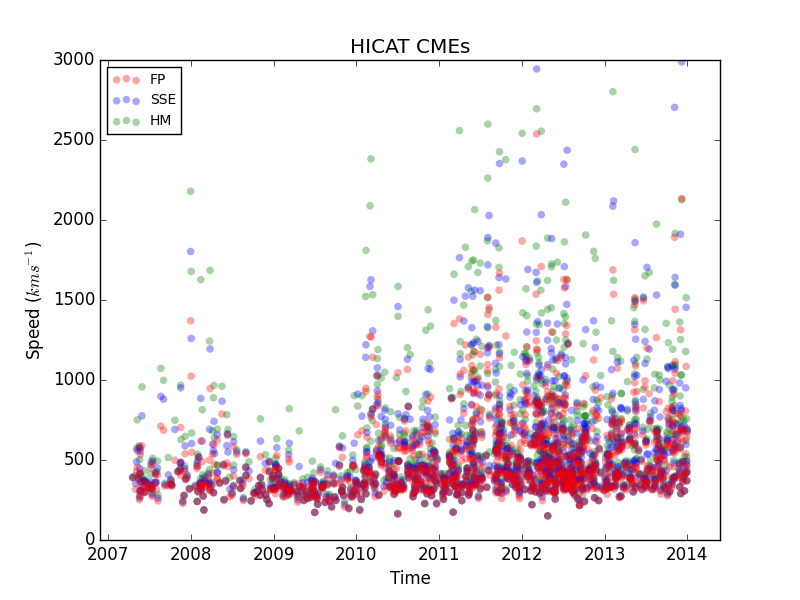
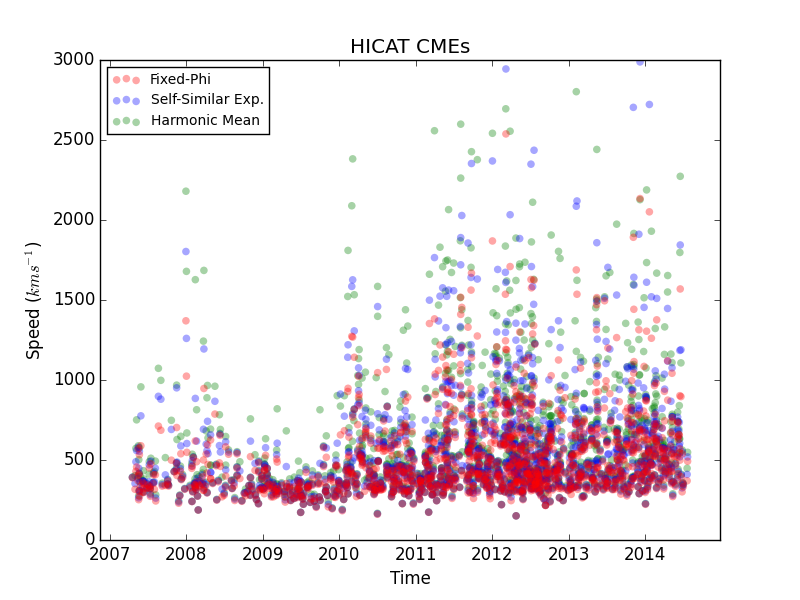
Updating hicat plots with data >2014

diff --git a/cmes.py b/cmes.py
@@ -94,8 +94,8 @@ def hicact(spc):
 def hicat():
 	# Read in the HELCATS HI Observational CME list
 	try:
-		#f = urllib2.urlopen("http://www.helcats-fp7.eu/catalogues/data/HCME_WP3_V02.txt")
-		#f = open(os.path.join(config.hicat_path,'HCME_WP3_V02.txt'),'r')
+		#f = urllib2.urlopen("http://www.helcats-fp7.eu/catalogues/data/HCME_WP3_V03.txt")
+		#f = open(os.path.join(config.hicat_path,'HCME_WP3_V03.txt'),'r')
 
 		cols = ['ID','Date [UTC]','SC','L-N','PA-N [deg]','L-S','PA-S [deg]','Quality','PA-fit',\
 			'FP speed [kms-1]','FP speed Err [kms-1]','FP Phi [deg]','FP Phi Err [deg]',\

diff --git a/hicat_plots.py b/hicat_plots.py
@@ -158,7 +158,7 @@ def hicat_speeds_datetime(df_hicat):
 	plt.title("HICAT CMEs")
 	plt.ylabel(speeds_label)
 	plt.xlabel("Time")
-	plt.legend([fp,sse,hm],['FP','SSE','HM'],prop={'size':ledge_sz},loc=2)
+	plt.legend([fp,sse,hm],['Fixed-Phi','Self-Similar Exp.','Harmonic Mean'],prop={'size':ledge_sz},loc=2)
 	save(path=os.path.join(config.hicat_path,"hicat_speeds_datetimes"),verbose=True)
 
 # Run All
